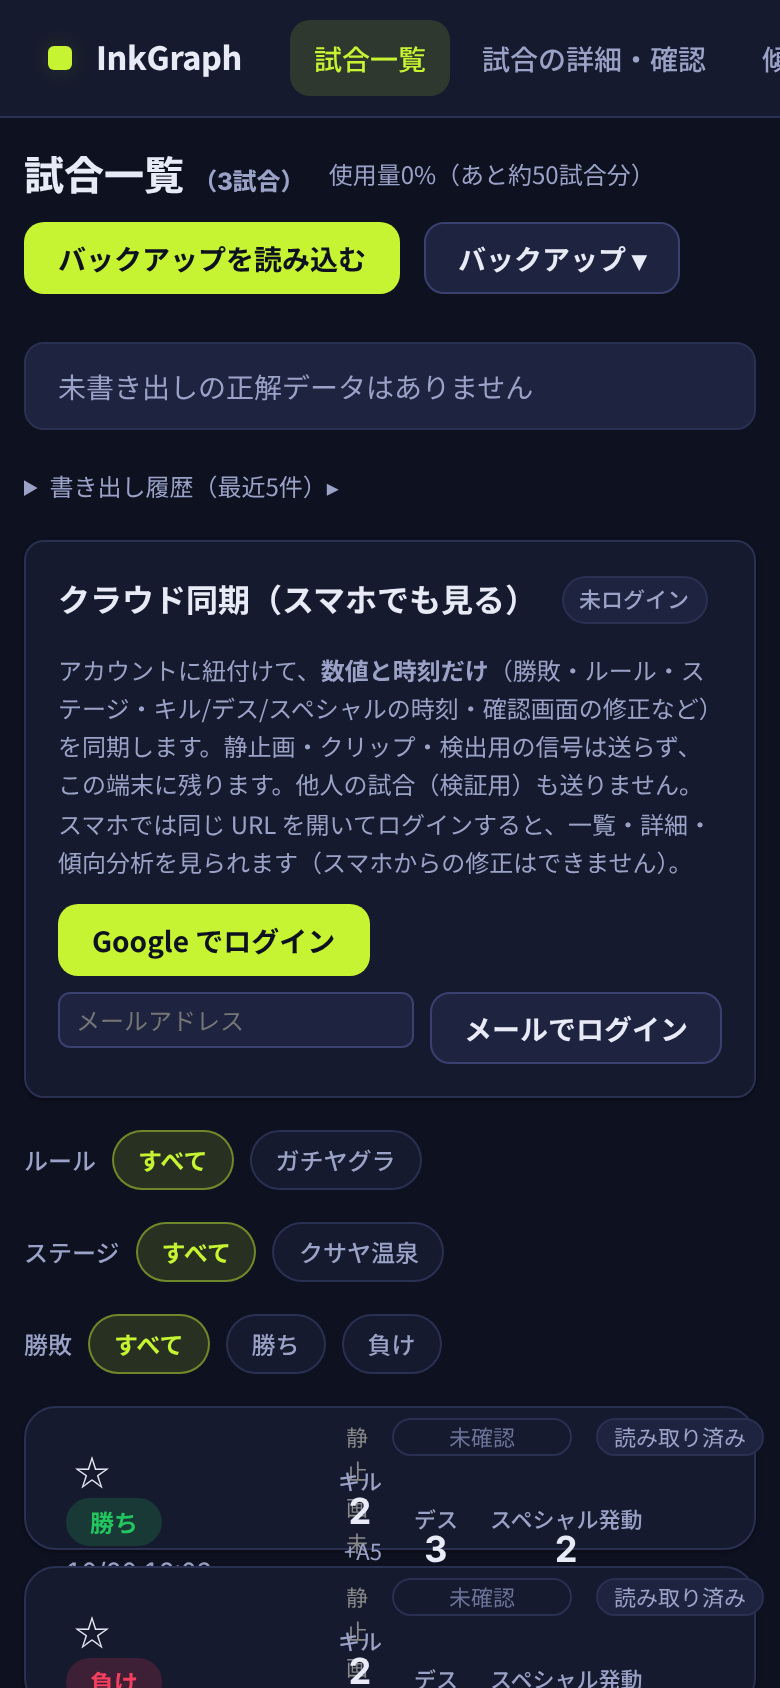
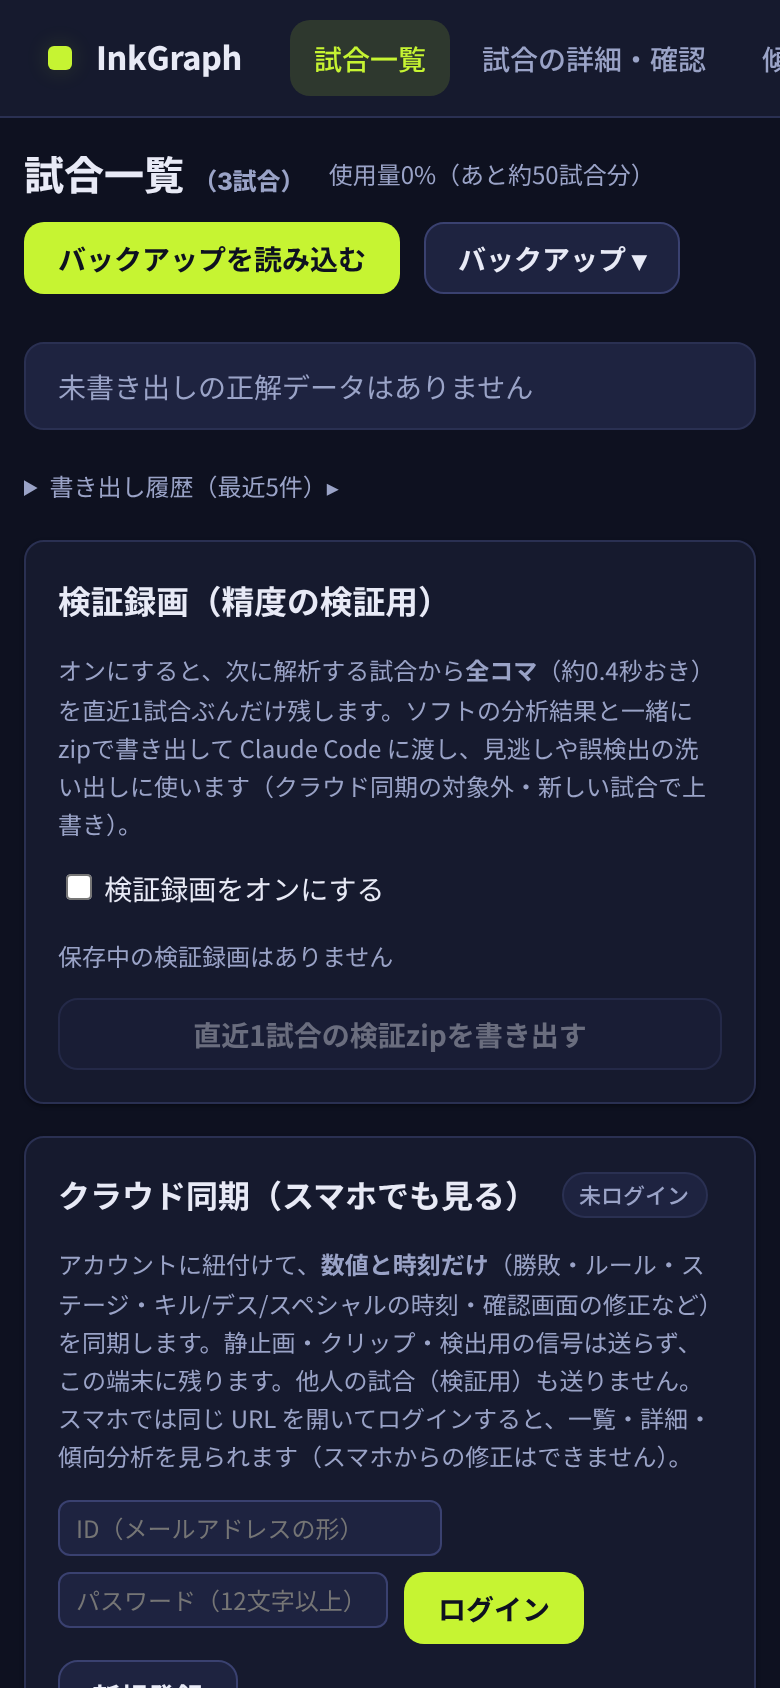
検証録画: 直近1試合の全コマ＋分析結果のzip書き出し (D67)
Claude-Session: https://claude.ai/code/session_018zsqgbHNLDpb8cVTBpk5SR

Changed region(s): [[0.0308, 0.3389, 0.9846, 1.0], [0.2769, 0.9858, 0.3077, 1.0]]

diff --git a/web/src/main.js b/web/src/main.js
@@ -8,6 +8,7 @@ import { b64bytes } from './core/img.js';
 import { prepEnemyIconLib } from './core/board_icons.js';
 import * as AN from './analysis.js';
 import { zipSync, unzipSync, strToU8 } from 'fflate';
+import * as VP from './verify_pack.js';
 import * as FB from './feedback.js';
 import * as BK from './backup.js';
 import * as CP from './capacity.js';
@@ -994,6 +995,7 @@ PAGES.list = async () => {
     ` : ''}
 
     <section id="retention-panel" class="card learn-panel"></section>
+    <section id="verify-panel" class="card learn-panel"></section>
     <section id="cloud-panel" class="card learn-panel"></section>
     <section id="learn-panel" class="card learn-panel"></section>
     <section id="tune-panel" class="card learn-panel"></section>
@@ -1727,6 +1729,23 @@ PAGES.list = async () => {
     $('#retention-now', el).onclick = async () => { if (await run(db.getRetentionKeep())) PAGES.list(); };
   };
   await updateRetentionPanel();
+  const updateVerifyPanel = async () => {
+    const el = $('#verify-panel', page); if (!el) return;
+    const on = db.getVerifyOn(), info = await db.verifyInfo().catch(() => null), m = info ? ms.find(x => x.id === info.matchId) : null;
+    el.innerHTML = `<h3>検証録画（精度の検証用）</h3>
+      <p class="muted">オンにすると、次に解析する試合から<strong>全コマ</strong>（約0.4秒おき）を直近1試合ぶんだけ残します。ソフトの分析結果と一緒にzipで書き出して Claude Code に渡し、見逃しや誤検出の洗い出しに使います（クラウド同期の対象外・新しい試合で上書き）。</p>
+      <label class="row"><input type="checkbox" id="verify-on" ${on ? 'checked' : ''}> 検証録画をオンにする</label>
+      <p class="muted" id="verify-info">${info ? `保存中: ${esc(m ? (m.created || '').slice(0, 16).replace('T', ' ') + ' 試合' + m.match : info.matchId)}・${info.count}コマ・約${fmtBytes(info.bytes)}` : '保存中の検証録画はありません'}</p>
+      <button class="btn" id="verify-export" type="button" ${info ? '' : 'disabled'}>直近1試合の検証zipを書き出す</button>`;
+    $('#verify-on', el).onchange = e => { db.setVerifyOn(e.target.checked); };
+    $('#verify-export', el).onclick = async () => {
+      const btn = $('#verify-export', el); btn.disabled = true; btn.textContent = '作成中…';
+      try { const { blob, filename } = await buildVerifyZip(info.matchId); const a = document.createElement('a'); a.href = URL.createObjectURL(blob); a.download = filename; document.body.appendChild(a); a.click(); a.remove(); setTimeout(() => URL.revokeObjectURL(a.href), 10000); }
+      catch (e) { alert('書き出しに失敗しました: ' + (e?.message || e)); }
+      btn.disabled = false; btn.textContent = '直近1試合の検証zipを書き出す';
+    };
+  };
+  await updateVerifyPanel();
 };
 
 // ============================================================================
@@ -1793,6 +1812,25 @@ async function buildBatchZip(matches, { mode = 'diff', batchId = FB.makeBatchId(
   files['README.txt'] = strToU8(FB.feedbackReadme(meta));
   const zip = zipSync(files, { level: 0 });
   return { blob: new Blob([zip], { type: 'application/zip' }), filename: FB.batchFilename(mode, now), meta };
+}
+
+// D67: 検証パック（直近1試合の全コマ＋ソフトの分析結果）。Claude Code に読ませて検出ロジックの改善材料にする。
+async function buildVerifyZip(matchId) {
+  const rec = await db.getMatch(matchId); if (!rec) throw new Error('試合が見つかりません');
+  const files = {}, full = [], clips = [], stills = [], now = new Date();
+  for (const f of await db.verifyOf(matchId)) { const name = VP.fullName(f.t); files[name] = new Uint8Array(await f.blob.arrayBuffer()); full.push({ time: f.t, file: name }); }
+  const snaps = await db.snapsOf(matchId);
+  for (const c of await db.clipsOf(matchId)) for (const f of c.frames || []) { const name = VP.clipName(c.idx ?? 0, f.t); files[name] = new Uint8Array(await f.blob.arrayBuffer()); clips.push({ time: f.t, file: name, clip_events: c.events || [] }); }
+  for (const s of snaps.filter(x => x.kind !== 'clip').sort((a, b) => a.t - b.t)) { const name = VP.stillName(s.kind, s.t, s.id); files[name] = new Uint8Array(await s.blob.arrayBuffer()); stills.push({ time: s.t, file: name, kind: s.kind || null, reason: s.reason || null }); }
+  const params = DP.activeParams?.() ?? null;
+  const meta = VP.buildVerifyMeta(rec, { full, clips, stills, params, exportedAt: now.toISOString(), step: 0.4 });
+  files['manifest.json'] = strToU8(JSON.stringify(meta, null, 1));
+  files['software.json'] = strToU8(JSON.stringify(rec));
+  files['summary.json'] = strToU8(JSON.stringify(VP.softwareSummary(rec), null, 1));
+  files['detect_params.json'] = strToU8(JSON.stringify(params, null, 1));
+  files['README.txt'] = strToU8(VP.verifyReadme(meta));
+  const zip = zipSync(files, { level: 0 });
+  return { blob: new Blob([zip], { type: 'application/zip' }), filename: VP.verifyFilename(rec, now), meta };
 }
 
 async function showFeedbackExportDialog(initialMode = 'diff') {

diff --git a/web/src/verify_pack.js b/web/src/verify_pack.js
@@ -1,0 +1,59 @@
+// D67: 検証パック。直近1試合の「全コマ」とソフトの分析結果を1つの zip にまとめる（Claude Code に読ませて検出ロジックの改善材料にする）。DOM 非依存。
+const p2 = n => String(n).padStart(2, '0');
+export const verifyFilename = (m, d = new Date()) => `ink-graph_検証_${d.getFullYear()}${p2(d.getMonth() + 1)}${p2(d.getDate())}-${p2(d.getHours())}${p2(d.getMinutes())}_試合${m.match ?? ''}.zip`;
+
+/** ソフトの検出結果を、時刻つきの読みやすい一覧にする（rec 本体は software.json に別で入れる） */
+export function softwareSummary(rec) {
+  const rs = rec.result_screen || {};
+  return {
+    id: rec.id, match: rec.match, rule: rs.mode ?? rec.rule ?? null, stage: rs.stage ?? rec.stage ?? null, match_type: rec.match_type ?? null,
+    battle: rec.battle ?? null, result: rs.result ?? null,
+    result_screen_counts: rs.own ?? null, recon: rec.recon ?? null,
+    deaths: (rec.own_deaths || []).map(e => ({ start: e.start, end: e.end, conf: e.conf ?? null, auto: e.auto ?? null, src: e.src ?? null })),
+    kills: (rec.own_kills || []).map(e => ({ start: e.start, end: e.end ?? null, conf: e.conf ?? null })),
+    specials: (rec.special || []).map(e => ({ ready: e.ready, end: e.end, outcome: e.outcome, activated_at: e.activated_at ?? null, conf: e.conf ?? null, auto: e.auto ?? null })),
+    human_review: rec.review ?? null
+  };
+}
+
+export function verifyReadme(meta) {
+  return [
+    'InkGraph 検証パック（1試合ぶんの全コマ＋ソフト分析結果）',
+    '',
+    `試合: ${meta.id}   書き出し: ${meta.exported}`,
+    `全コマ: ${meta.full.count}枚（約${meta.full.step}秒おき）／場面クリップ: ${meta.clips.count}枚（0.2秒おき・検出箇所の前後）／静止画: ${meta.stills.count}枚`,
+    '',
+    '【構成】',
+    '- manifest.json … 全コマ・クリップ・静止画の一覧（time = 試合の解析時刻[秒], file = zip内パス）',
+    '- software.json … ソフト（アプリ）の分析結果そのもの（rec）',
+    '- summary.json … 検出したデス・キル・スペシャルと結果画面の数、人の確認内容を読みやすくしたもの',
+    '- detect_params.json … 書き出し時点の検出パラメータ',
+    '- frames/full/ … 試合中の全コマ（WebP 720p）。検出できなかった場所の取りこぼし探し用',
+    '- frames/clips/ … 検出箇所の前後を 5fps で保存したコマ（時刻の精密な確認用）',
+    '- stills/ … 結果画面などの静止画',
+    '',
+    '【Claude Code での使い方】',
+    'このzipを展開したフォルダを開き、「summary.json と frames を見て、ソフトの検出が正しいか検証して。',
+    '見逃し（デス・キル・スペシャル）と誤検出を時刻つきで列挙し、原因と検出ロジックの改善案を出して」と頼む。',
+    '',
+    '【ご注意】',
+    '- 画像にはゲーム画面のプレイヤー名が映ります。共有前に確認してください。',
+    '- このアプリはデータを自動送信しません。',
+    ''
+  ].join('\n');
+}
+
+const tName = t => t.toFixed(2).padStart(7, '0');
+/** frames: IndexedDB 由来 [{t, blob}] ではなく、書き出し用に {t, name} へ整形したもの */
+export function buildVerifyMeta(rec, { full, clips, stills, params, exportedAt, step }) {
+  return {
+    app: 'InkGraph', kind: 'verify', format: 1, exported: exportedAt, id: rec.id, battle: rec.battle ?? null,
+    full: { count: full.length, step, frames: full },
+    clips: { count: clips.length, frames: clips },
+    stills: { count: stills.length, frames: stills },
+    params: params ?? null
+  };
+}
+export const fullName = t => `frames/full/f_${tName(t)}.webp`;
+export const clipName = (idx, t) => `frames/clips/c${String(idx).padStart(2, '0')}_${tName(t)}.webp`;
+export const stillName = (kind, t, id) => `stills/${kind || 'frame'}_${tName(t)}_${id}.jpg`;

diff --git a/web/src/db.js b/web/src/db.js
@@ -1,6 +1,6 @@
 // IndexedDB: matches (records), videos (recorded clips), snaps (still frames), learn (learning packs)
 import { CAP_BYTES, TARGET_RATIO, getCapBytes, matchStillsBytes, summarizeCapacity, planCapacityCleanup } from './capacity.js';
-const DB = 'inkgraph', VER = 2; let dbp = null;
+const DB = 'inkgraph', VER = 3; let dbp = null;
 function open() { if (dbp) return dbp; dbp = new Promise((res, rej) => { const r = indexedDB.open(DB, VER);
   r.onupgradeneeded = () => {
     const d = r.result;
@@ -11,6 +11,7 @@ function open() { if (dbp) return dbp; dbp = new Promise((res, rej) => { const r
       s.createIndex('match', 'matchId');
     }
     if (!d.objectStoreNames.contains('learn')) d.createObjectStore('learn', { keyPath: 'key' });
+    if (!d.objectStoreNames.contains('verify')) { const v = d.createObjectStore('verify', { keyPath: 'id', autoIncrement: true }); v.createIndex('match', 'matchId'); } // D67: 検証録画（直近1試合ぶんの全コマ）
   };
   r.onsuccess = () => res(r.result); r.onerror = () => rej(r.error); }); return dbp; }
 const tx = async (store, mode, fn) => { const d = await open(); return new Promise((res, rej) => { const t = d.transaction(store, mode); const s = t.objectStore(store); const r = fn(s); t.oncomplete = () => res(r instanceof IDBRequest ? r.result : r); t.onerror = () => rej(t.error); }); };
@@ -24,7 +25,7 @@ export const pendingDeletes = () => { try { return JSON.parse(localStorage.getIt
 export const clearPendingDeletes = ids => { try { localStorage.setItem(DEL_KEY, JSON.stringify(pendingDeletes().filter(d => !ids.includes(d.id)))); } catch { /* ignore */ } };
 export const delMatch = async (id, opts = {}) => {
   if (!opts.fromCloud) { try { localStorage.setItem(DEL_KEY, JSON.stringify([...pendingDeletes().filter(d => d.id !== id), { id, at: new Date().toISOString() }])); if (typeof window !== 'undefined') window.dispatchEvent(new CustomEvent('inkgraph:dirty')); } catch { /* ignore */ } }
-  await tx('matches', 'readwrite', s => s.delete(id)); await tx('videos', 'readwrite', s => s.delete(id)); await delSnaps(id); };
+  await tx('matches', 'readwrite', s => s.delete(id)); await tx('videos', 'readwrite', s => s.delete(id)); await delSnaps(id); if ((await verifyInfo())?.matchId === id) await clearVerify(); };
 export async function snapsCount(id) { return (await snapsOf(id)).length; }
 // m.favorite: boolean / m.stillsState: 'kept'|'deleted'|'none' (旧レコードはフィールド無し可)
 export function stillsStateOf(m, snapCount) {
@@ -285,3 +286,20 @@ export async function setMatchLearnFeatures(matchId, list) {
   await putMatch(m);
   return m;
 }
+
+// D67: 検証録画。直近1試合の全コマ（約0.4秒おき）だけを持つ。新しい試合を保存すると前のぶんは消す（容量の整理・同期の対象外）
+export const clearVerify = () => tx('verify', 'readwrite', s => s.clear());
+export async function putVerify(matchId, frames) {
+  await clearVerify();
+  for (const f of frames) await tx('verify', 'readwrite', s => s.add({ matchId, t: f.t, blob: f.blob }));
+}
+export const verifyOf = async matchId => (await tx('verify', 'readonly', s => s.index('match').getAll(matchId))).sort((a, b) => a.t - b.t);
+export async function verifyInfo() {
+  const all = await tx('verify', 'readonly', s => s.getAll());
+  if (!all.length) return null;
+  let bytes = 0; for (const f of all) bytes += f.blob?.size || 0;
+  return { matchId: all[0].matchId, count: all.length, bytes };
+}
+const VERIFY_KEY = 'inkgraph.verifyRec';
+export function getVerifyOn() { try { return localStorage.getItem(VERIFY_KEY) === '1'; } catch { return false; } }
+export function setVerifyOn(on) { try { localStorage.setItem(VERIFY_KEY, on ? '1' : '0'); } catch { /* ignore */ } }

diff --git a/web/src/worker.js b/web/src/worker.js
@@ -45,6 +45,9 @@ function toClipBlob(fr) {
 const STILL_CAP = 48, RESULT_EXTRA = 8, MOMENT_DEDUP_SEC = 5, RING_SEC = 6;
 let ring = [], lastRingT = -1e9, stillCount = 0, ringGen = 0; const lastKindT = {};
 let pendingClips = [];
+// D67: 検証録画（約0.4秒おきに試合の全コマを残す。init の verify が真のときだけ）
+const VERIFY_STEP = 0.4;
+let verifyOn = false, verifyFrames = [], lastVerifyT = -1e9;
 
 function openClip(kind, t) {
   const from = t - CLIP.BEFORE;
@@ -97,6 +100,7 @@ function resetMatchState() {
   }
   pendingClips = [];
   ring = [];
+  verifyFrames = []; lastVerifyT = -1e9;
   lastRingT = -1e9;
   stillCount = 0;
   ringGen++;
@@ -121,11 +125,14 @@ self.onmessage = async (ev) => {
   const m = ev.data;
   if (m.type === 'init') {
     if (m.detectParams) setParams(m.detectParams);
+    verifyOn = !!m.verify;
     configureYolo(m.assetsUrl.replace(/[^/]*$/, ''));
     if (!A) { const r = await fetch(m.assetsUrl); A = prepAssets(await r.json()); }
     an = new Analyzer(A, { srcH: m.srcH || 1080, matchNo: m.matchNo || 1, learnThresholds: m.learnThresholds || null,
       onMatch: rec => {
-        const pend = yoloPending, reads = yoloReads; resetMatchState();
+        const pend = yoloPending, reads = yoloReads;
+        if (verifyOn && verifyFrames.length) postMessage({ type: 'verify', battle: rec.battle, frames: verifyFrames });
+        resetMatchState();
         // YOLO の読み取りを待ってから試合を送る。flush（停止）はこの完了を待つので、待っている間に Worker が止められて試合が消えることはない
         matchChain = matchChain.then(async () => {
           try { await Promise.allSettled(pend); const filled = mergeYoloHeader(rec, reads, powerForMatchType); if (filled.length) rec.yolo_filled = filled; } catch (e) { console.warn('yolo merge failed', e); }
@@ -148,8 +155,10 @@ self.onmessage = async (ev) => {
       // keep a 0.5 s grid on average even when frames come every 0.2 s (0.6/0.4 s alternation instead of a fixed 0.6 s)
       lastRingT = m.t - lastRingT < 2 * CLIP.STEP ? lastRingT + CLIP.STEP : m.t;
       const p = toClipBlob(fr), gen = ringGen, t = m.t;
+      const wantVerify = verifyOn && m.t - lastVerifyT >= VERIFY_STEP - 1e-6; if (wantVerify) lastVerifyT = m.t;
       if (p) p.then(blob => {
         if (gen !== ringGen) return;
+        if (wantVerify && blob) verifyFrames.push({ t, blob });
         ring.push({ t, blob });
         while (ring.length && ring[0].t < t - RING_SEC) ring.shift();
         for (const clip of pendingClips) {

diff --git a/web/src/session.js b/web/src/session.js
@@ -35,7 +35,7 @@ export class Session {
     const learnState = await db.getLearnState().catch(() => null);
     const activePack = await db.activeLearnPack(learnState).catch(() => null);
     const learnThresholds = activePack?.thresholds || null;
-    await new Promise(res => { this.worker.onmessage = e => { if (e.data.type === 'ready') res(); }; this.worker.postMessage({ type: 'init', assetsUrl: new URL('assets/inkgraph_assets.json', document.baseURI).href, srcH: this.srcH, learnThresholds, detectParams: detectParams.activeParams() }); });
+    await new Promise(res => { this.worker.onmessage = e => { if (e.data.type === 'ready') res(); }; this.worker.postMessage({ type: 'init', assetsUrl: new URL('assets/inkgraph_assets.json', document.baseURI).href, srcH: this.srcH, learnThresholds, detectParams: detectParams.activeParams(), verify: db.getVerifyOn() }); });
     this.worker.onmessage = e => this.onMsg(e.data); this.running = true;
 
     // visibilitychange リスナ: hidden 時はガードに通知、visible 復帰時に running なら resume()
@@ -145,6 +145,7 @@ export class Session {
     }
     else if (m.type === 'snapshot') this.pendingSnaps.push(m);
     else if (m.type === 'clip') this.pendingClips.push(m);
+    else if (m.type === 'verify') this.pendingVerify = m;
     else if (m.type === 'match') this.saving = (this.saving || Promise.resolve()).then(() => this.saveMatch(m.rec));
     else if (m.type === 'flushed') this.flushed?.();
   }
@@ -155,6 +156,7 @@ export class Session {
         const battleStart = rec.battle?.[0] ?? 0;
         this.pendingSnaps = this.pendingSnaps.filter(s => !(s.t >= battleStart - 30));
         this.pendingClips = this.pendingClips.filter(c => !(c.t >= battleStart - 30));
+        this.pendingVerify = null;
         this.stats.discarded = (this.stats.discarded || 0) + 1;
         this.cb.discarded?.({ rec, interrupted: v.interrupted });
         return;
@@ -198,6 +200,7 @@ export class Session {
     }
     rec.learnFeatures = matchLearnFeats;
     await db.putMatch(rec);
+    if (this.pendingVerify) { const v = this.pendingVerify; this.pendingVerify = null; try { await db.putVerify(id, v.frames); rec.verify = { count: v.frames.length }; await db.putMatch(rec); } catch (e) { console.warn('putVerify failed', e); } }
     for (const { snap: s, feat } of snapFeatPairs) {
       await db.putSnap({ matchId: id, t: s.t, reason: s.reason, kind: s.kind || null, header: s.header || null, event: s.event || null, blob: s.blob, features: feat });
     }

diff --git a/web/src/cloud/slim.js b/web/src/cloud/slim.js
@@ -1,6 +1,6 @@
 // D58: クラウドに送る試合データ（数値と時刻だけ）の切り出しと、取り込み時の統合。DOM・ネットワーク非依存の純粋関数。
 // 送らないもの：静止画・クリップ・録画・検出用の信号（cues）・ヤグラの生データ・自己学習用の特徴量（端末にだけ残す）。
-export const LOCAL_ONLY = ['cues', 'tower_rows', 'tower_raw', 'learnFeatures', 'stills', 'clips', 'video', 'stillsState', 'pre_recorrect', 'remote', 'synced', 'updated', 'favorite_local'];
+export const LOCAL_ONLY = ['cues', 'tower_rows', 'tower_raw', 'learnFeatures', 'stills', 'clips', 'verify', 'video', 'stillsState', 'pre_recorrect', 'remote', 'synced', 'updated', 'favorite_local'];
 export const MAX_BYTES = 400 * 1024; // 1 試合の上限（超えたら送らない。通常は 10〜30KB）
 
 /** 同期の対象か：自分の試合だけ（配信映像などの「検証用」＝他人の試合は送らない） */

diff --git a/docs/DECISIONS.md b/docs/DECISIONS.md
@@ -778,3 +778,10 @@
 - 保存：見本に `type` を持たせた（`weapon_lib.js` の `addNamed(名前, 絵, 種類)`、`userTypes()`）。クラウド同期（D58）の見本の和集合は名前＋絵で判定するので、種類つきでもそのまま動く。
 - 表示：「いた敵ブキ／味方ブキ／自分のブキ」の表の「種類」の列を、従来の「メイン」から、ブキの種類（シューター等）に変えた（未登録の行は「未登録」のまま）。
 - 検証：`web/tools/weapon_stats_check.mjs` を更新（種類の決まり方 4 件の単体、選ぶまでボタンが押せない・選ぶと種類が自動で入る・リストにない武器（名前＋種類）・表の「種類」の列、計 17 件 ALL PASS）。`enemy_icon_check`・`trends_filter_check`・`cloud_ui_check`・`mobile_list_check`・`cloud_sync_check` も PASS。
+
+## D67 (2026-10-27) 検証録画（直近 1 試合の全コマ＋ソフトの分析結果を zip に）
+- 目的：検出できなかった場所（見逃し）にデス・キル・スペシャルがあるかを、Claude Code（定額プランの範囲）に読ませて確かめ、検出ロジックの改善材料にする。API 課金は使わない（AI 実行は人が Claude Code に zip を渡す手動方式＝「A 案」）。
+- 録画：リスト画面の「検証録画」パネルでオンにすると、解析中の試合の**全コマを約 0.4 秒おき**（720p WebP）で残す（`worker.js` の `VERIFY_STEP`。既存の 0.2 秒おきの輪（クリップ用）から間引くので追加の変換は無い）。1 試合約 750 枚・約 20MB。保存先は IndexedDB の新ストア `verify`（DB v3）で、**直近 1 試合だけ**（新しい試合を保存すると上書き）。静止画の容量整理・直近 N 試合の整理・クラウド同期（`rec.verify` は LOCAL_ONLY）の対象外。その試合を消すと一緒に消える。
+- 書き出し：「直近 1 試合の検証 zip を書き出す」。中身は `software.json`（rec そのもの）・`summary.json`（デス／キル／スペシャルの時刻・結果画面の数・補正の履歴・人の確認内容）・`detect_params.json`・`manifest.json`（全画像の時刻とファイル名）・`frames/full/`（全コマ）・`frames/clips/`（検出箇所の前後 5fps）・`stills/`（結果画面など）・`README.txt`（Claude Code への頼み方）。`web/src/verify_pack.js` が名前付けと要約を持つ。
+- 検証：`web/tools/verify_pack_check.mjs`（純関数 6 件）、`web/tools/verify_rec_check.mjs`（実ブラウザ 9 件：上書き・別試合の削除で残る・パネル・設定・zip の中身）、`clip_ui_check`・`cloud_ui_check`・`stills_retention_check`・`cloud_sync_check` も PASS。実映像での確認は未。
+- 今後：フレームから Claude Code が見逃し候補を出す手順（突合ツール）。1 試合ずつ録画ファイルに分ける機能（D68）。
